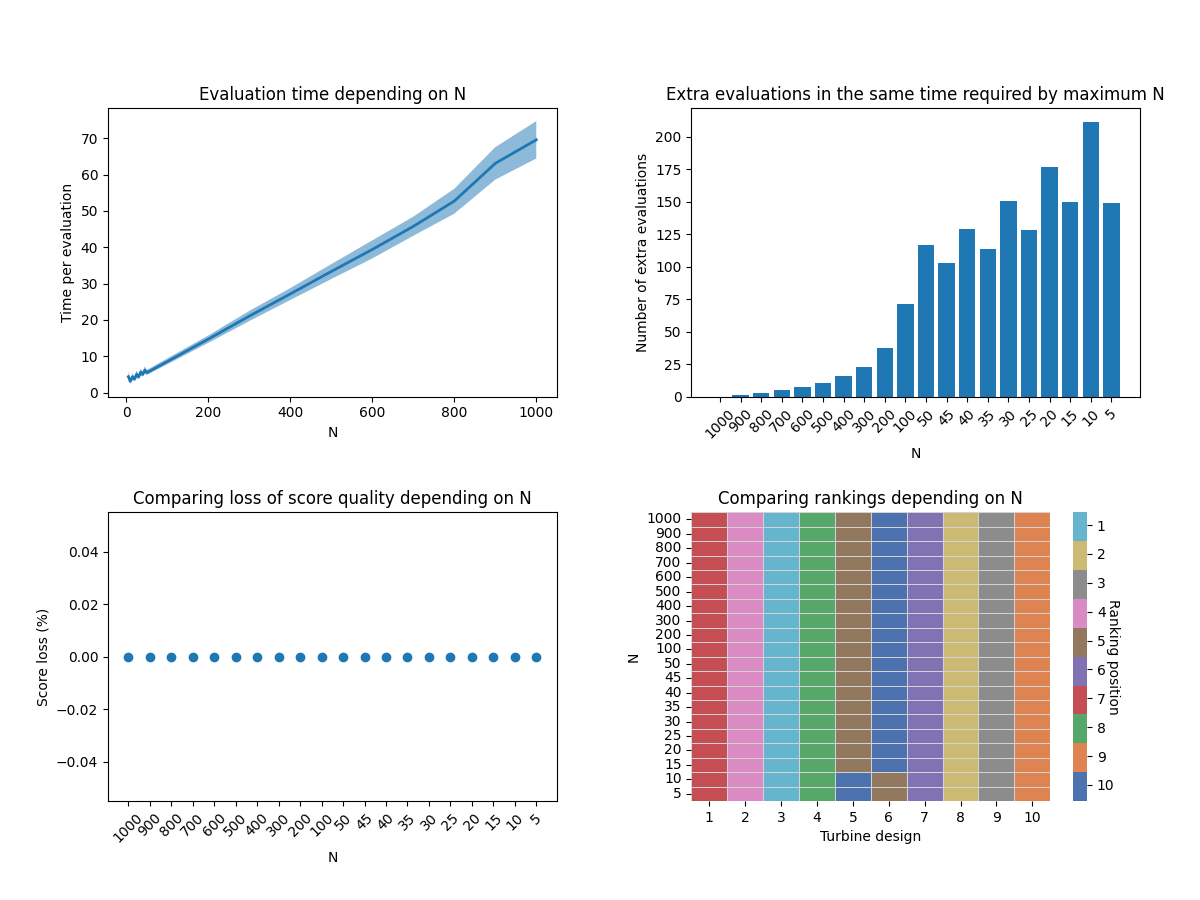
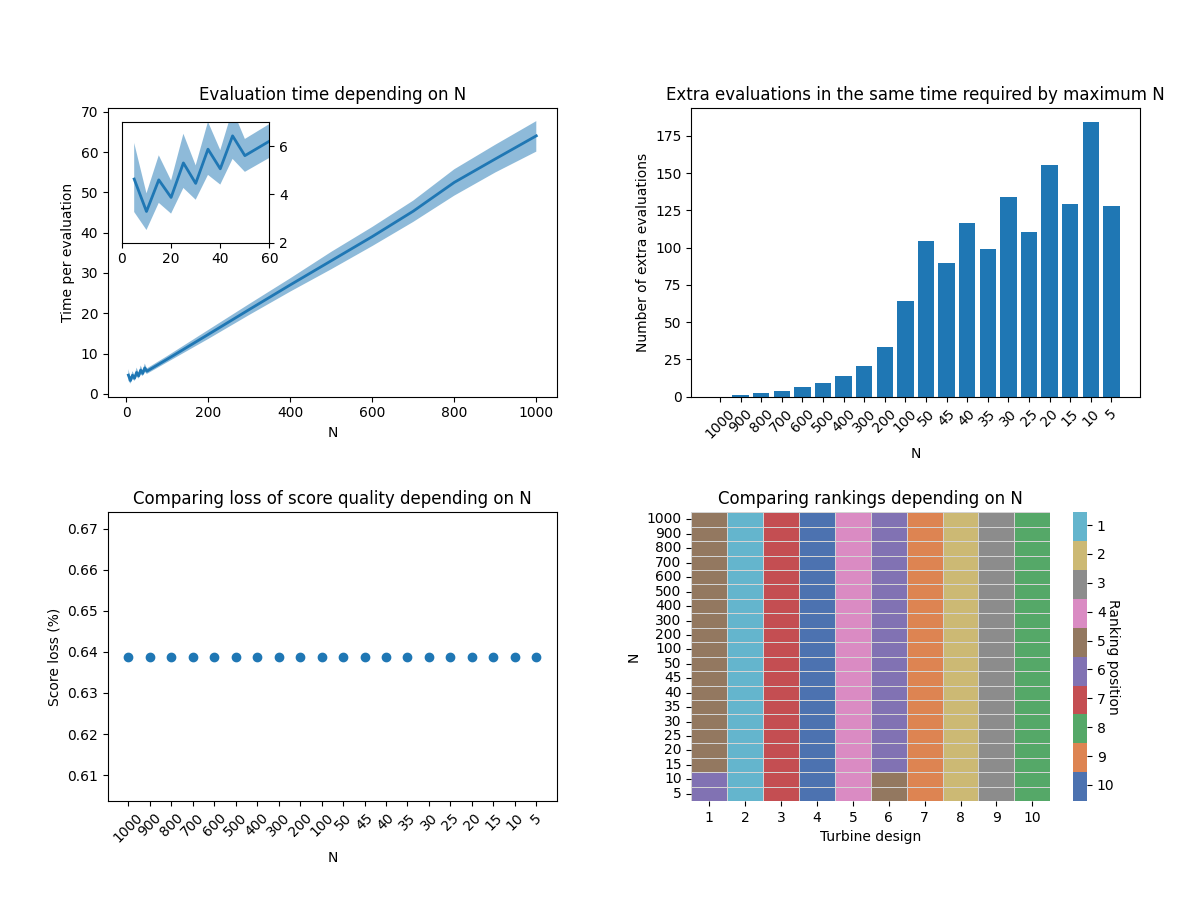
add some fixes

diff --git a/experimentScripts_Turbines/UnderstandingAccuracy_data.py b/experimentScripts_Turbines/UnderstandingAccuracy_data.py
@@ -84,7 +84,7 @@ def build_constargs_dict(N):
 	omega = 2100# Rotational speed.
 	rcas = 0.4# Casing radius.
 	airfoils = ["NACA0015", "NACA0018", "NACA0021"]# Set of possible airfoils.
-	polars = turbine_classes.polar_database_load(filepath=os.path.dirname("POLARS"), pick=False)# Polars.
+	polars = turbine_classes.polar_database_load(filepath="OptimizationAlgorithms_KONFLOT/", pick=False)# Polars.
 	cpobjs = [933.78, 1089.41, 1089.41, 1011.59, 1011.59, 1011.59, 933.78, 933.78, 933.78, 855.96]# Target dumping coefficients.
 	devobjs = [2170.82, 2851.59, 2931.97, 2781.80, 2542.296783, 4518.520988, 4087.436172, 3806.379812, 5845.986619, 6745.134759]# Input sea-state standard pressure deviations.
 	weights = [0.1085, 0.1160, 0.1188, 0.0910, 0.0824, 0.1486, 0.0882, 0.0867, 0.0945, 0.0652]# Input sea-state weights.
@@ -158,12 +158,23 @@ def set_evaluation(set_turb_params,N):
 		all_times.append(elapsed)
 
 	# Calcular datos que se guardarán en la base de datos.
-	ranking=np.argsort(all_scores)
+	ranking=from_argsort_to_ranking(np.argsort(all_scores))
 	total_time=sum(all_times)
 	time_per_eval=np.mean(all_times)
 
 	return [N,all_scores,ranking,all_times,total_time,time_per_eval]
 	
+# FUNCIÓN 5
+# Parámetros:
+#   >list: lista conseguida tras aplicar "np.argsort" sobre una lista (original).
+# Devolver: nueva lista que representa el ranking de los elementos de la lista original.
+def from_argsort_to_ranking(list):
+    new_list=[0]*len(list)
+    i=0
+    for j in list:
+        new_list[j]=i
+        i+=1
+    return new_list
 
 #==================================================================================================
 # PROGRAMA PRINCIPAL
@@ -183,7 +194,7 @@ for n in tqdm(grid_N):
 	df.append(set_evaluation(set_turb_params,n))
 
 df=pd.DataFrame(df,columns=['N','all_scores','ranking','all_times','total_time','time_per_eval'])
-df.to_csv('results/data/Turbines/UnderstandingAccuracy.scv')
+df.to_csv('results/data/Turbines/UnderstandingAccuracy.csv')
 
 
 

diff --git a/experimentScripts_Turbines/UnderstandingAccuracy_figures.py b/experimentScripts_Turbines/UnderstandingAccuracy_figures.py
@@ -10,6 +10,7 @@ import scipy as sc
 import matplotlib.pyplot as plt
 import pandas as pd
 import seaborn as sns
+from mpl_toolkits.axes_grid1.inset_locator import zoomed_inset_axes,mark_inset
 
 #==================================================================================================
 # FUNCIONES
@@ -94,6 +95,17 @@ plt.plot(x,y_mean,linewidth=2)
 ax1.set_xlabel('N')
 ax1.set_ylabel('Time per evaluation')
 ax1.set_title('Evaluation time depending on N')
+
+#Zoom
+axins = zoomed_inset_axes(ax1,6,loc='upper left',borderpad=1)
+axins.fill_between(x,y_q05,y_q95,alpha=.5,linewidth=0)
+plt.plot(x,y_mean,linewidth=2)
+axins.set_xlim(0,60)
+axins.set_ylim(2,7)
+axins.yaxis.tick_right()
+#plt.xticks(visible=False)
+#plt.yticks(visible=False)
+#mark_inset(ax1,axins,loc1=2,loc2=4)
 
 #--------------------------------------------------------------------------------------------------
 # GRÁFICA 2 
